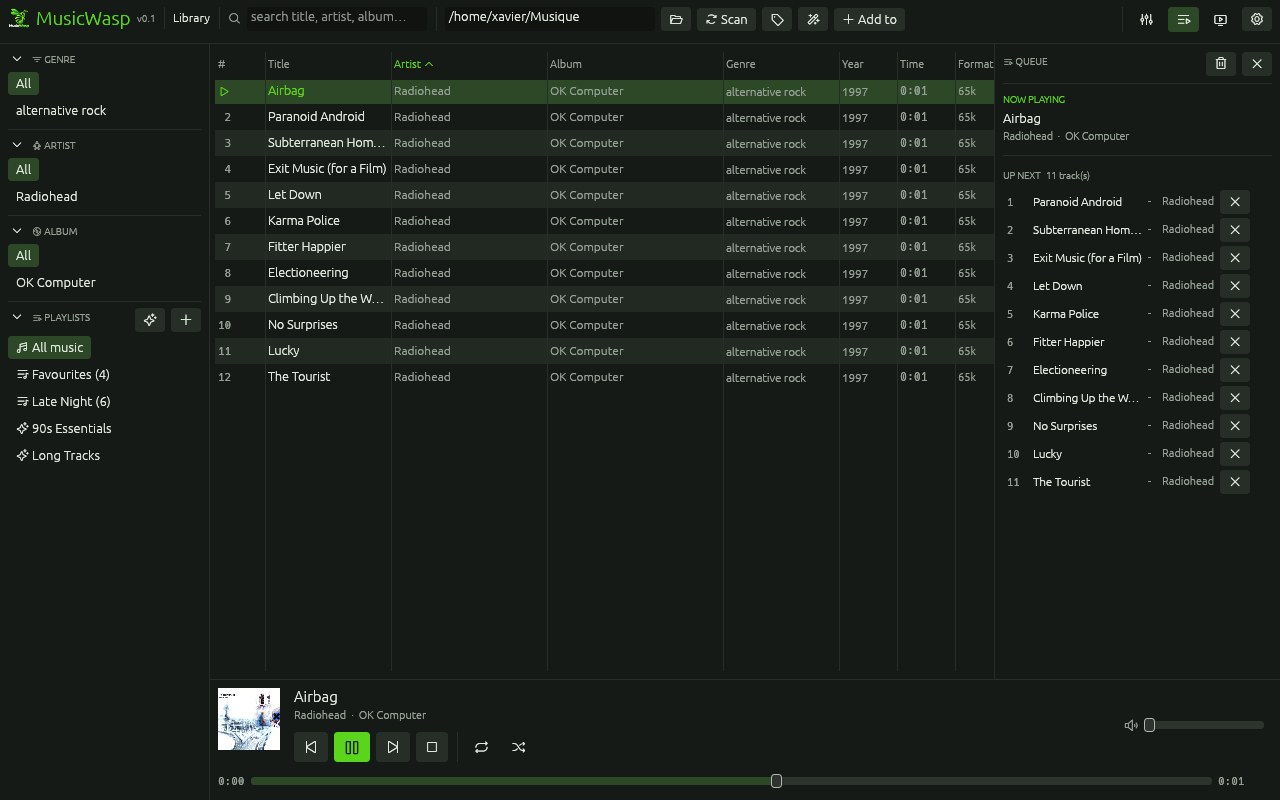
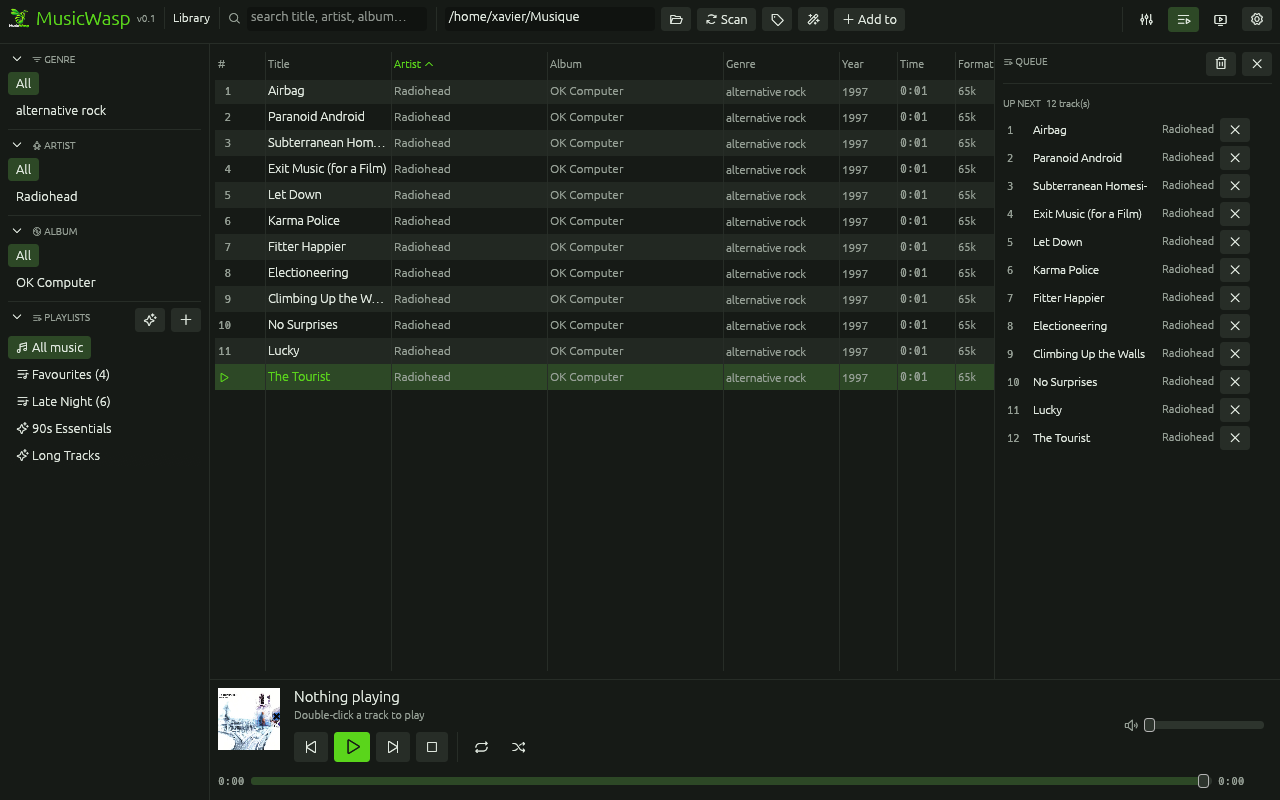
fix play queue panel

Changed region(s): [[0.1562, 0.0938, 0.9688, 0.625], [0.2188, 0.8438, 0.3438, 0.9375], [0.8125, 0.5938, 0.8438, 0.625]]

diff --git a/gui/src/ui.rs b/gui/src/ui.rs
@@ -14,6 +14,52 @@ fn os_files_over(ui: &egui::Ui, rect: egui::Rect) -> bool {
     })
 }
 
+/// Shorten `text` so it fits `width` pixels, ending with a hyphen when the text
+/// had to be cut. Used by the queue so long titles/artists crop instead of
+/// spilling out of the panel.
+fn crop_to_width(ui: &egui::Ui, text: &str, width: f32, size: f32) -> String {
+    let font = egui::FontId::proportional(size);
+    let measure = |value: &str| {
+        ui.painter()
+            .layout_no_wrap(value.to_owned(), font.clone(), Color32::PLACEHOLDER)
+            .size()
+            .x
+    };
+    crop_with_hyphen(text, width, measure("-"), &measure)
+}
+
+/// Width-measuring core of [`crop_to_width`], kept separate so it can be tested
+/// without an egui context.
+fn crop_with_hyphen(
+    text: &str,
+    width: f32,
+    hyphen_width: f32,
+    measure: &dyn Fn(&str) -> f32,
+) -> String {
+    if measure(text) <= width {
+        return text.to_owned();
+    }
+    // Binary search the longest prefix whose width still leaves room for the
+    // hyphen. Measures are memoised but still allocate, so avoid one per char.
+    let chars: Vec<char> = text.chars().collect();
+    let mut lo = 0;
+    let mut hi = chars.len();
+    while lo < hi {
+        let mid = (lo + hi).div_ceil(2);
+        let candidate: String = chars[..mid].iter().collect();
+        if measure(&candidate) + hyphen_width <= width {
+            lo = mid;
+        } else {
+            hi = mid - 1;
+        }
+    }
+    let mut cropped: String = chars[..lo].iter().collect();
+    let trimmed = cropped.trim_end().len();
+    cropped.truncate(trimmed);
+    cropped.push('-');
+    cropped
+}
+
 /// Small caret that folds a browser section. Returns true when clicked.
 fn fold_button(ui: &mut egui::Ui, folded: bool, tooltip: &str) -> bool {
     let icon = if folded {
@@ -1090,10 +1136,10 @@ pub fn queue_panel(app: &mut App, ui: &mut egui::Ui) {
                                 let inner = rect.shrink2(egui::vec2(4.0, 0.0));
                                 let index_width = 22.0;
                                 let artist_width = (inner.width() * 0.34).clamp(52.0, 96.0);
-                                let dash_width = 10.0;
+                                let gap_width = 10.0;
                                 let title_left = inner.left() + index_width + 4.0;
                                 let title_width =
-                                    (inner.right() - artist_width - dash_width - 8.0 - title_left)
+                                    (inner.right() - artist_width - gap_width - title_left)
                                         .max(24.0);
 
                                 let index_rect = egui::Rect::from_min_size(
@@ -1124,6 +1170,7 @@ pub fn queue_panel(app: &mut App, ui: &mut egui::Ui) {
                                     egui::pos2(title_left, inner.top()),
                                     egui::vec2(title_width, inner.height()),
                                 );
+                                let title_text = crop_to_width(ui, &track.title, title_width, 11.5);
                                 ui.scope_builder(
                                     egui::UiBuilder::new().max_rect(title_rect).layout(
                                         egui::Layout {
@@ -1134,7 +1181,7 @@ pub fn queue_panel(app: &mut App, ui: &mut egui::Ui) {
                                     |ui| {
                                         ui.add(
                                             egui::Label::new(
-                                                RichText::new(&track.title)
+                                                RichText::new(&title_text)
                                                     .size(11.5)
                                                     .color(th::text()),
                                             )
@@ -1144,31 +1191,12 @@ pub fn queue_panel(app: &mut App, ui: &mut egui::Ui) {
                                     },
                                 );
 
-                                let dash_rect = egui::Rect::from_min_size(
-                                    egui::pos2(title_rect.right() + 4.0, inner.top()),
-                                    egui::vec2(dash_width, inner.height()),
-                                );
-                                ui.scope_builder(
-                                    egui::UiBuilder::new().max_rect(dash_rect).layout(
-                                        egui::Layout {
-                                            main_align: egui::Align::Min,
-                                            ..egui::Layout::left_to_right(egui::Align::Center)
-                                        },
-                                    ),
-                                    |ui| {
-                                        ui.add(
-                                            egui::Label::new(
-                                                RichText::new("-").size(11.0).color(th::text_dim()),
-                                            )
-                                            .selectable(false),
-                                        );
-                                    },
-                                );
-
                                 let artist_rect = egui::Rect::from_min_size(
-                                    egui::pos2(dash_rect.right() + 4.0, inner.top()),
+                                    egui::pos2(title_rect.right() + gap_width, inner.top()),
                                     egui::vec2(artist_width, inner.height()),
                                 );
+                                let artist_text =
+                                    crop_to_width(ui, &track.artist, artist_width, 11.0);
                                 ui.scope_builder(
                                     egui::UiBuilder::new().max_rect(artist_rect).layout(
                                         egui::Layout {
@@ -1179,7 +1207,7 @@ pub fn queue_panel(app: &mut App, ui: &mut egui::Ui) {
                                     |ui| {
                                         ui.add(
                                             egui::Label::new(
-                                                RichText::new(&track.artist)
+                                                RichText::new(&artist_text)
                                                     .size(11.0)
                                                     .color(th::text_dim()),
                                             )
@@ -2768,5 +2796,26 @@ pub fn smart_dialog(app: &mut App, ctx: &egui::Context) {
     }
     if !open {
         app.smart_dialog = None;
+    }
+}
+
+#[cfg(test)]
+mod tests {
+    use super::crop_with_hyphen;
+
+    fn char_width(text: &str) -> f32 {
+        text.chars().count() as f32
+    }
+
+    #[test]
+    fn cropping_marks_the_cut_with_a_hyphen() {
+        let measure = |text: &str| char_width(text);
+        assert_eq!(crop_with_hyphen("Short", 10.0, 1.0, &measure), "Short");
+        assert_eq!(
+            crop_with_hyphen("A long title", 6.0, 1.0, &measure),
+            "A lon-"
+        );
+        // Trailing spaces are dropped before the hyphen.
+        assert_eq!(crop_with_hyphen("Two words", 4.0, 1.0, &measure), "Two-");
     }
 }
